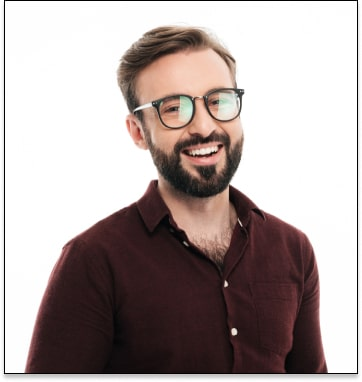
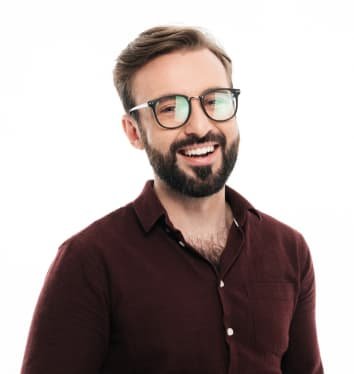
webp team

diff --git a/index.html b/index.html
@@ -190,24 +190,48 @@
           <h2 class="section__title">Чем мы занимаемся</h2>
           <ul class="work__list">
             <li class="work__item">
-              <a class="work__link" href=""
-                ><img src="images/img1.jpg" width="370" alt="Картинка 1" />
+              <a class="work__link" href="">
+                <img
+                  srcset="
+                    ./images/jpeg/desctop-aplication-370-min.jpg    1x,
+                    ./images/jpeg/desctop-aplication-370@2x-min.jpg 2x
+                  "
+                  src="./images/jpeg/desctop-aplication-370-min.jpg"
+                  width="370"
+                  alt="Картинка 1"
+                />
                 <div class="work__description">
                   <h3 class="work__text">Десктопные приложения</h3>
                 </div>
               </a>
             </li>
             <li class="work__item">
-              <a class="workt__link" href=""
-                ><img src="images/img2.jpg" width="370" alt="Картинка 2" />
+              <a class="workt__link" href="">
+                <img
+                  srcset="
+                    ./images/jpeg/mobile-aplication-370-min.jpg    1x,
+                    ./images/jpeg/mobile-aplication-370@2x-min.jpg 2x
+                  "
+                  src="./images/jpeg/mobile-aplication-370-min.jpg"
+                  width="370"
+                  alt="Картинка 2"
+                />
                 <div class="work__description">
                   <h3 class="work__text">Мобильные приложения</h3>
                 </div>
               </a>
             </li>
             <li class="work__item">
-              <a class="work__link" href=""
-                ><img src="images/img3.jpg" width="370" alt="Картинка 3" />
+              <a class="work__link" href="">
+                <img
+                  srcset="
+                    ./images/jpeg/dizainer-370-min.jpg    1x,
+                    ./images/jpeg/dizainer-370@2x-min.jpg 2x
+                  "
+                  src="./images/jpeg/dizainer-370-min.jpg"
+                  width="370"
+                  alt="Картинка 3"
+                />
                 <div class="work__description">
                   <h3 class="work__text">Дизайнерские решения</h3>
                 </div>
@@ -231,7 +255,7 @@
                     ./images/webp/igor-354@2x.webp 708w,
                     ./images/webp/igor-450@2x.webp 900w
                   "
-                  sizes="(min-width: 1200px) 25vw, (min-width: 768px) 50vw, 100vw"
+                  sizes="(min-width: 1200px) 15vw, (min-width: 1200px) 25vw, (min-width: 768px) 50vw, 100vw"
                   type="image/webp"
                 />
 
@@ -246,7 +270,7 @@
                   "
                   src="./images/jpeg/igor-270-min.jpg"
                   alt="Игорь Демьяненко"
-                  sizes="(min-width: 1200px) 25vw, (min-width: 768px) 50vw, 100vw"
+                  sizes="(min-width: 1200px) 15vw, (min-width: 1200px) 25vw, (min-width: 768px) 50vw, 100vw"
                 />
               </picture>
               <div class="team__card">
@@ -285,7 +309,34 @@
               </div>
             </li>
             <li class="team__item">
-              <img src="images/Olha.jpg" alt="Ольга Репина" />
+              <picture>
+                <source
+                  srcset="
+                    ./images/webp/olga-270.webp    270w,
+                    ./images/webp/olga-354.webp    354w,
+                    ./images/webp/olga-450.webp    450w,
+                    ./images/webp/olga-270@2x.webp 540w,
+                    ./images/webp/olga-354@2x.webp 708w,
+                    ./images/webp/olga-450@2x.webp 900w
+                  "
+                  sizes="(min-width: 1200px) 15vw, (min-width: 1200px) 25vw, (min-width: 768px) 50vw, 100vw"
+                  type="image/webp"
+                />
+
+                <img
+                  srcset="
+                    ./images/jpeg/olga-270-min.jpg    270w,
+                    ./images/jpeg/olga-354-min.jpg    354w,
+                    ./images/jpeg/olga-450-min.jpg    450w,
+                    ./images/jpeg/olga-270@2x-min.jpg 540w,
+                    ./images/jpeg/olga-354@2x-min.jpg 708w,
+                    ./images/jpeg/olga-450@2x-min.jpg 900w
+                  "
+                  src="./images/jpeg/olga-270-min.jpg"
+                  alt="Ольга Репина"
+                  sizes="(min-width: 1200px) 15vw, (min-width: 1200px) 25vw, (min-width: 768px) 50vw, 100vw"
+                />
+              </picture>
               <div class="team__card">
                 <h3 class="team__title">Ольга Репина</h3>
                 <p class="team__text" lang="en">Frontend Developer</p>
@@ -322,7 +373,34 @@
               </div>
             </li>
             <li class="team__item">
-              <img src="images/Nikolaj.jpg" alt="Николай Тарасов" />
+              <picture>
+                <source
+                  srcset="
+                    ./images/webp/nikolaj-270.webp    270w,
+                    ./images/webp/nikolaj-354.webp    354w,
+                    ./images/webp/nikolaj-450.webp    450w,
+                    ./images/webp/nikolaj-270@2x.webp 540w,
+                    ./images/webp/nikolaj-354@2x.webp 708w,
+                    ./images/webp/nikolaj-450@2x.webp 900w
+                  "
+                  sizes="(min-width: 1200px) 15vw, (min-width: 1200px) 25vw, (min-width: 768px) 50vw, 100vw"
+                  type="image/webp"
+                />
+
+                <img
+                  srcset="
+                    ./images/jpeg/nikolaj-270-min.jpg    270w,
+                    ./images/jpeg/nikolaj-354-min.jpg    354w,
+                    ./images/jpeg/nikolaj-450-min.jpg    450w,
+                    ./images/jpeg/nikolaj-270@2x-min.jpg 540w,
+                    ./images/jpeg/nikolaj-354@2x-min.jpg 708w,
+                    ./images/jpeg/nikolaj-450@2x-min.jpg 900w
+                  "
+                  src="./images/jpeg/nikolaj-270-min.jpg"
+                  alt="Николай Тарасов"
+                  sizes="(min-width: 1200px) 15vw, (min-width: 1200px) 25vw, (min-width: 768px) 50vw, 100vw"
+                />
+              </picture>
               <div class="team__card">
                 <h3 class="team__title">Николай Тарасов</h3>
                 <p class="team__text" lang="en">Marketing</p>
@@ -359,7 +437,34 @@
               </div>
             </li>
             <li class="team__item">
-              <img src="images/Misha.jpg" alt="Михаил Ермаков" />
+              <picture>
+                <source
+                  srcset="
+                    ./images/webp/mihail-270.webp    270w,
+                    ./images/webp/mihail-354.webp    354w,
+                    ./images/webp/mihail-450.webp    450w,
+                    ./images/webp/mihail-270@2x.webp 540w,
+                    ./images/webp/mihail-354@2x.webp 708w,
+                    ./images/webp/mihail-450@2x.webp 900w
+                  "
+                  sizes="(min-width: 1200px) 15vw, (min-width: 1200px) 25vw, (min-width: 768px) 50vw, 100vw"
+                  type="image/webp"
+                />
+
+                <img
+                  srcset="
+                    ./images/jpeg/mihail-270-min.jpg    270w,
+                    ./images/jpeg/mihail-354-min.jpg    354w,
+                    ./images/jpeg/mihail-450-min.jpg    450w,
+                    ./images/jpeg/mihail-270@2x-min.jpg 540w,
+                    ./images/jpeg/mihail-354@2x-min.jpg 708w,
+                    ./images/jpeg/mihail-450@2x-min.jpg 900w
+                  "
+                  src="./images/jpeg/mihail-270-min.jpg"
+                  alt="Михаил Ермаков"
+                  sizes="(min-width: 1200px) 15vw, (min-width: 1200px) 25vw, (min-width: 768px) 50vw, 100vw"
+                />
+              </picture>
               <div class="team__card">
                 <h3 class="team__title">Михаил Ермаков</h3>
                 <p class="team__text" lang="en">UI Designer</p>
